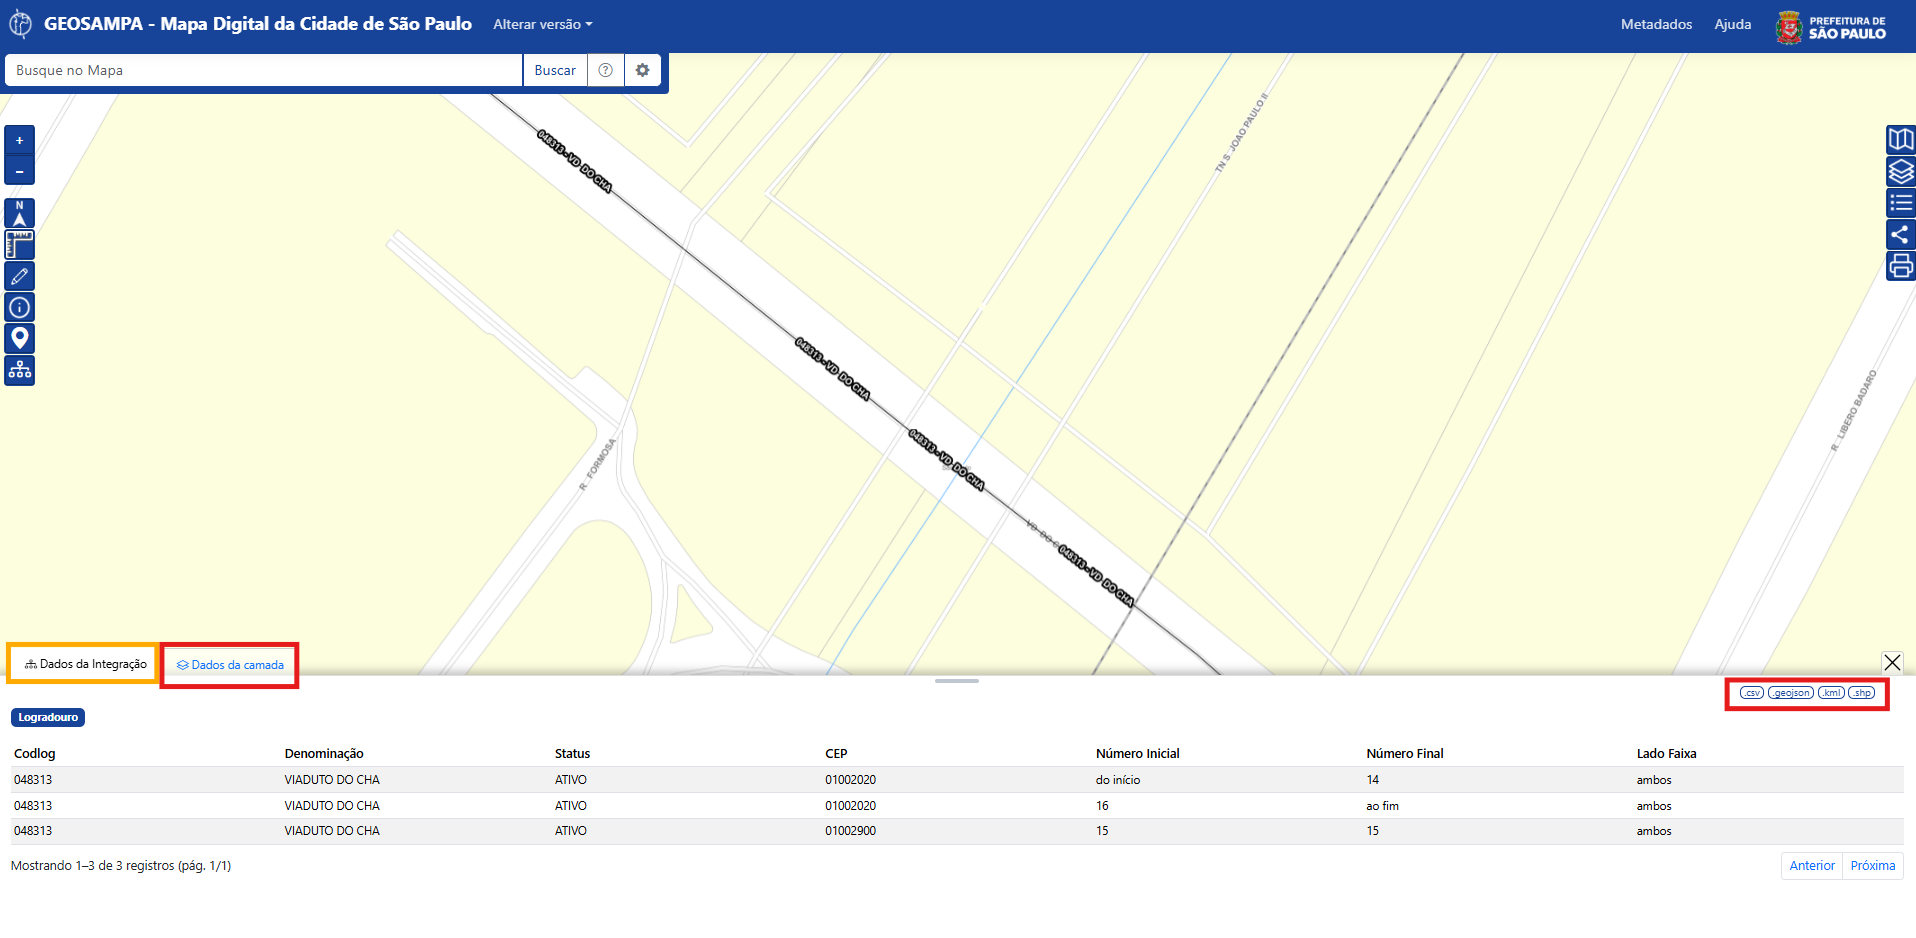
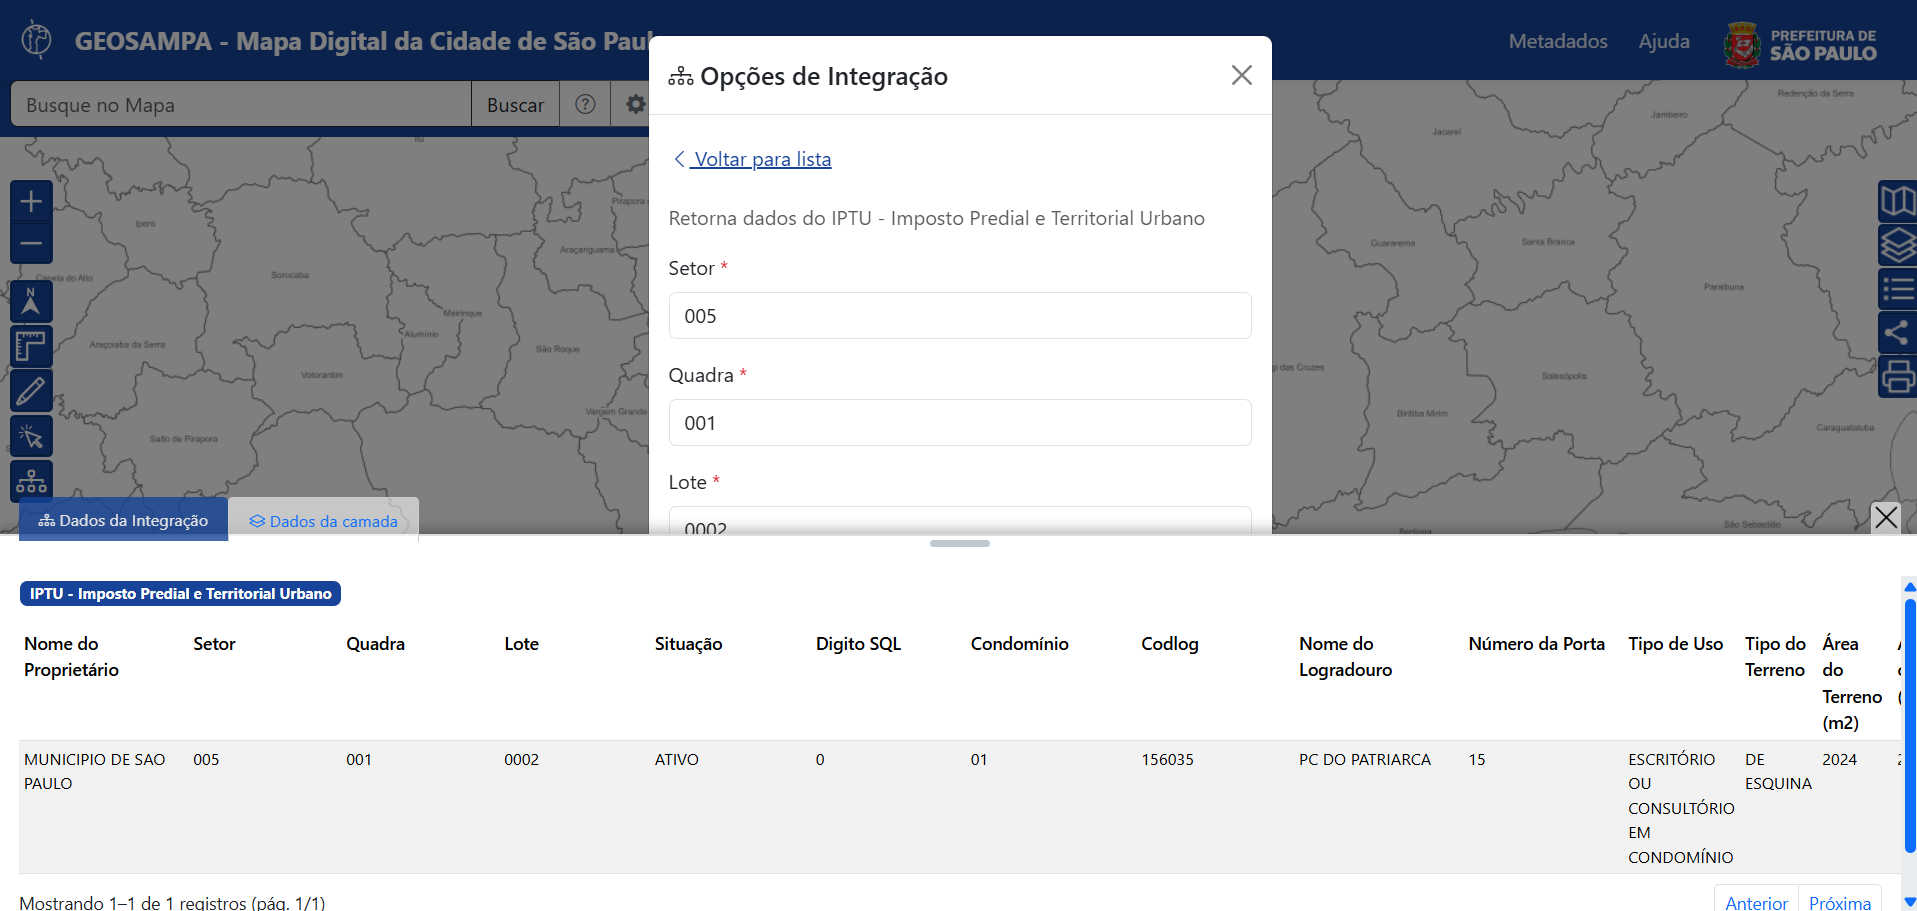
Alteração de ícones e imagem de referência das integrações. Alterações de textos para adequação à versão cidadão.

diff --git a/index.html b/index.html
@@ -19,7 +19,7 @@
     <!-- JavaScript personalizado -->
     <script src="script.js" defer></script>
 
-    <title>Tutorial Intranet</title>
+    <title>Tutorial GeoSampa</title>
     
 </head>
 
@@ -70,7 +70,7 @@
                     <li><a class="nav-link nivel2" href="#040303">SQL</a></li>
                     <li><a class="nav-link nivel2" href="#040304">Coordenadas</a></li>
                     <li><a class="nav-link nivel2" href="#040305">Nominatim</a></li>
-                    <li><a class="nav-link nivel2" href="#040306">Plus Code</a></li>
+                    <li><a class="nav-link nivel2" href="#040306">Open location code</a></li>
                 </ul>
             </li>
 
@@ -193,10 +193,10 @@
 
             <main class="col-lg-9 col-xl-7">
 
-                <h1 id="00" ><br><br>Tutorial GeoSampa Cidadão</h1>
+                <h1 id="00" ><br><br>Tutorial GeoSampa</h1>
 
-                    <p> Este tutorial auxilia no uso das ferramentas disponíveis e na navegação pelos mapas e camadas de dados do GeoSampa 
-                        <strong>Cidadão</strong>. 
+                    <p> Este tutorial auxilia no uso das ferramentas disponíveis e na navegação pelos mapas e camadas de dados do  
+                        <strong>GeoSampa</strong>. 
                    
                     <p> O GeoSampa passou por uma reformulação da Interface de navegação. Este tutorial é relacionado à essa nova versão.</p>
 
@@ -280,21 +280,21 @@
                                         <tr>
                                             <td>WMS - Camadas</td>
                                             <td>Serviço WMS para as camadas do GeoSampa</td>
-                                            <td><a href="http://wms.GeoSampa.prodam/geoserver/geoportal/wms" target="_blank">
-                                                http://wms.GeoSampa.prodam/geoserver/geoportal/wms</a></td>
+                                            <td><a href="https://wms.geosampa.prefeitura.sp.gov.br/geoserver/geoportal/wms" target="_blank">
+                                                https://wms.geosampa.prefeitura.sp.gov.br/geoserver/geoportal/wms</a></td>
                                         </tr>
                                         <tr>
                                             <td>WMS - Mapas Base</td>
                                             <td>Serviço WMS para os mosaicos de ortofotos e levantamentos aéreos (como o SARA Brasil 1930 e VASP Cruzeiro 
                                                 1954)</td>
-                                            <td><a href="http://raster.GeoSampa.prodam/geoserver/geoportal/wms" target="_blank">
-                                                http://raster.GeoSampa.prodam/geoserver/geoportal/wms</a></td>
+                                            <td><a href="https://raster.geosampa.prefeitura.sp.gov.br/geoserver/geoportal/wms" target="_blank">
+                                                https://raster.geosampa.prefeitura.sp.gov.br/geoserver/geoportal/wms</a></td>
                                         </tr>
                                         <tr>
                                             <td>WFS - Camadas</td>
                                             <td>Serviço WFS para as camadas do GeoSampa</td>
-                                            <td><a href="http://wfs.GeoSampa.prodam/geoserver/geoportal/wfs" target="_blank">
-                                                http://wfs.GeoSampa.prodam/geoserver/geoportal/wfs</a></td>
+                                            <td><a href="https://wfs.geosampa.prefeitura.sp.gov.br/geoserver/geoportal/wfs" target="_blank">
+                                                https://wfs.geosampa.prefeitura.sp.gov.br/geoserver/geoportal/wfs</a></td>
                                         </tr>
                                     </tbody>
                             </table>
@@ -777,12 +777,12 @@
                                 de forma semelhante à Wikipédia. Construído por voluntários, utiliza dados de GPS, imagens de satélite e conhecimento local 
                                 para fornecer informações geográficas gratuitas sob licença aberta.</p>
 
-                        <h3 id="040306">Plus Code</h3>
+                        <h3 id="040306">Open location code</h3>
 
-                            <p> Um Plus Code é um código de localização alfanumérico. Nele, a informação necessária à geolocalização é organizada em um único código,
+                            <p> Um open location code é um código de localização alfanumérico. Nele, a informação necessária à geolocalização é organizada em um único código,
                                 dispensando a utilização de latitudes e longitudes. </p>
 
-                            <p> Para saber o Plus Code de algum local, clique com o botão direito do mouse na localização escolhida; em seguida, clique na opção
+                            <p> Para saber o open location code de algum local, clique com o botão direito do mouse na localização escolhida; em seguida, clique na opção
                                 <strong>Gerar open location code</strong>.</p>
 
                     <h2 id="0404">Menu de ferramentas</h2>
